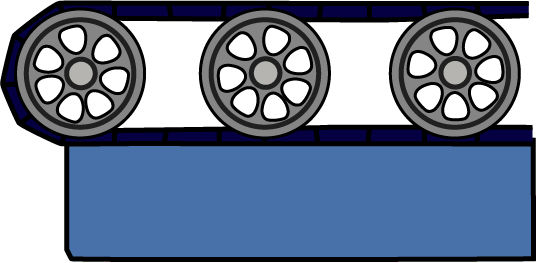
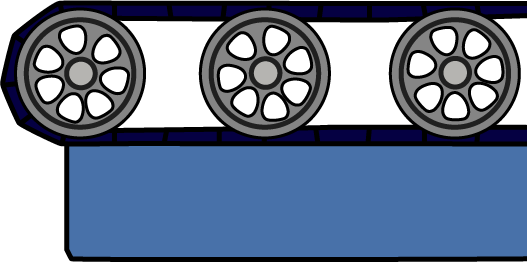
微調動畫

Changed region(s): [[0.0, 0.0, 1.0, 1.0], [0.3036, 0.0, 0.334, 0.0611]]

diff --git a/Defined_css/layout_plan.css b/Defined_css/layout_plan.css
@@ -66,7 +66,7 @@
 	background-size:contain;
 	position:absolute;
 	top:165px;
-	left:119px;
+	left:115px;
 	height:150px;
 	width:225px;
 	animation:beltSystem 1s infinite;
@@ -75,18 +75,36 @@
 
 @keyframes beltSystem
 {
-0%  {background: url(../img/game/beltSystem_1.png) no-repeat;left:118px;}
-33%   {background: url(../img/game/beltSystem_2.png) no-repeat;left:118px;}
-66%   {background: url(../img/game/beltSystem_3.png) no-repeat;left:116px;}
-100%   {background: url(../img/game/beltSystem_1.png) no-repeat;left:118px;}
+0%  {background: url(../img/game/beltSystem_1.png) no-repeat;
+	//left:118px;
+	}
+33%   {background: url(../img/game/beltSystem_2.png) no-repeat;
+	//left:118px;
+	}
+66%   {background: url(../img/game/beltSystem_3.png) no-repeat;
+//left:116px;
+}
+100%   {background: url(../img/game/beltSystem_1.png) no-repeat;
+//left:118px;
+}
+
 }
 
 @-webkit-keyframes beltSystem /* Safari and Chrome */
 {
-0%  {background: url(../img/game/beltSystem_1.png) no-repeat;left:118px;}
-33%   {background: url(../img/game/beltSystem_2.png) no-repeat;left:118px;}
-66%   {background: url(../img/game/beltSystem_3.png) no-repeat;left:116px;}
-100%   {background: url(../img/game/beltSystem_1.png) no-repeat;left:118px;}
+0%  {
+background: url(../img/game/beltSystem_1.png) no-repeat;
+//left:118px;
+}
+33%   {background: url(../img/game/beltSystem_2.png) no-repeat;
+//left:118px;
+}
+66%   {background: url(../img/game/beltSystem_3.png) no-repeat;
+//left:116px;
+}
+100%   {background: url(../img/game/beltSystem_1.png) no-repeat;
+//left:118px;
+}
 }
 
 .game_container{
